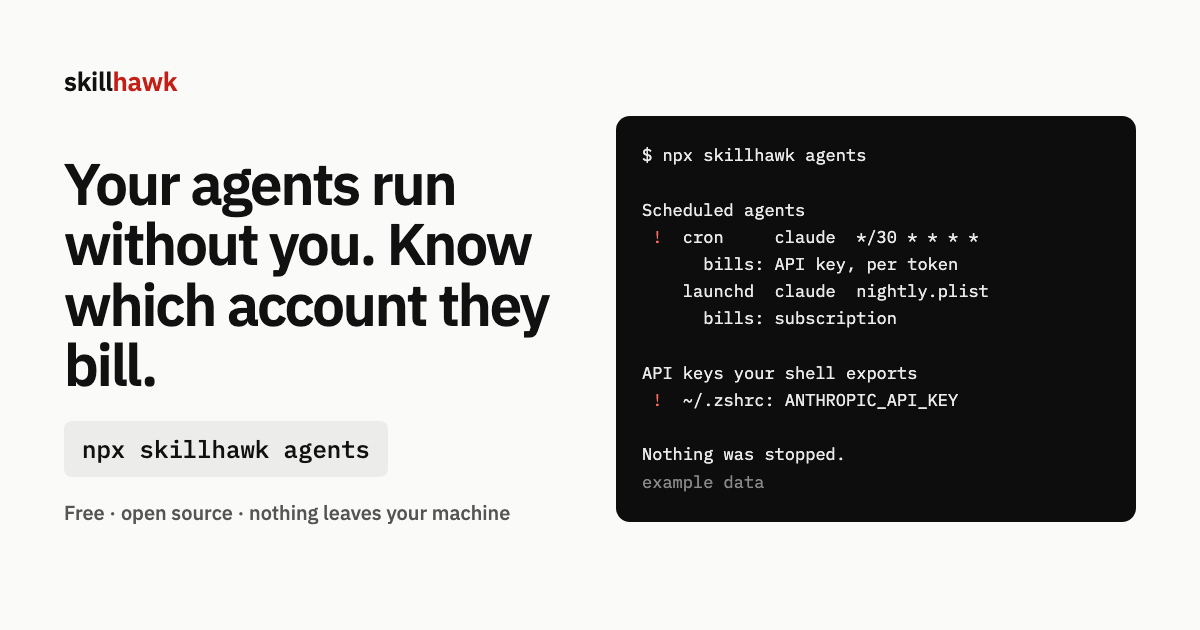
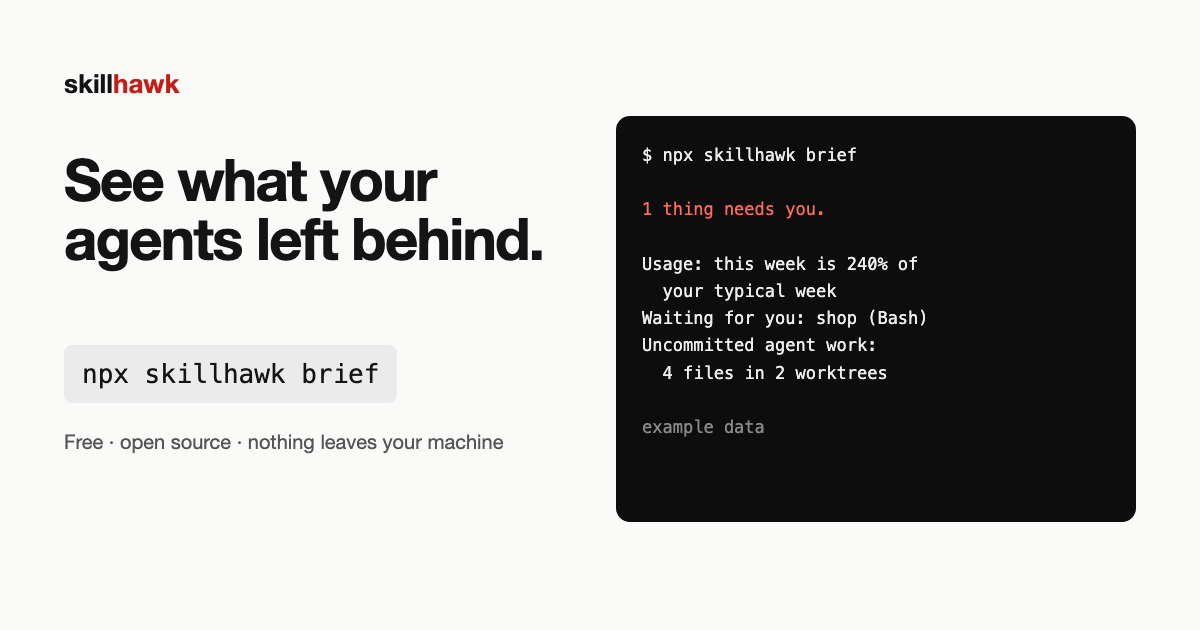
Home: see what your agents left behind; six free checks; own-machine proof; Free / Autopilot / Teams pricing

diff --git a/web/app.js b/web/app.js
@@ -281,7 +281,7 @@ MEDIUM .mcp.json:3  MCP server "files" runs @example/server-filesystem unpinned
 // every output line comes from a real run on registry/public, examples/, test/fixtures or the seeded demo data
 // (long output shortened, not edited).
 const FREE = 'Free and open source. Runs on your machine.';
-const PILOT = 'Pro: $20 a month, waitlist; the hosted vault is not running yet. The company vault, offboarding and exit interviews need a Teams license.';
+const PILOT = 'Teams license: the company vault, offboarding and exit interviews. Talk to us.';
 // Watch is built (private repo skillhawk-watch) and not on sale yet. Each row states what the free command does today and what Watch adds.
 const WATCH = { id: 'watch', step: 'Autopilot', h: 'Autopilot: the checks, run for you.', tier: 'Autopilot: built, not on sale yet; founding price $9 a month for the first 100 when it is. Join the waitlist (free, no payment); the commands below work today.',
   promise: 'Unattended agents are where surprise bills come from: a scheduled run that picks up an API key, or a loop nobody stops. Today the free command shows which agents run without you and which account each bills. Autopilot (built, not on sale yet) runs in the background: it warns when a job starts billing an API key, tracks cost per headless job, can stop one that runs away, and every day checks your codebase health, which lessons stick and what work you keep repeating.',
@@ -353,24 +353,20 @@ const ROADMAP = ['Leak-watch crawler', 'Stronger collusion resistance (merged co
 
 // Free and Pro prices mirror src/plans.js PLANS; test/pricing.test.js keeps them equal. Teams are by inquiry for now.
 const PRICING = {
-  heading: 'Free checks today. Autopilot: $9 a month for the first 100.',
-  note: 'Prices in USD. Autopilot is built and not on sale yet, and the hosted Pro vault is not running yet: join a waitlist, no payment collected. Autopilot founding price: $9 a month for the first 100 buyers, kept for as long as you stay subscribed; then $19 a month or $190 a year. Teams: tell us what you need.',
+  heading: 'Free now. Autopilot: $9 a month.',
+  note: 'Prices in USD. Autopilot is built and not on sale yet: join the waitlist, no payment collected. Founding price: $9 a month for the first 100 buyers, kept for as long as you stay subscribed; then $19 a month or $190 a year. Teams: tell us what you need.',
   plans: [
     { id: 'free', name: 'Free', monthlyUsd: 0, seats: 1, extraSeatUsd: null, price: '$0', per: 'MIT licensed',
-      blurb: 'Open source (MIT). Review, secure, clean and compile run offline on your machine; model, registry and import commands use the network.',
-      items: ['brief, usage, stuck, snapshot and restore, tidy, logs-secrets', 'setup, health, brain, factory', 'review, review --chats, secure, clean', 'create, compile to 5 agents, optimize', 'radar, A/B skills, model-release watch', 'map, tokens, agents, savings ledger and statement', 'test, dev, ci, badge'],
-      cta: { label: 'npx skillhawk review', href: 'https://github.com/agentwik-labs/skillhawk', code: true } },
+      blurb: 'Open source (MIT). Runs on your machine when you run it. No account, no key.',
+      items: ['brief, usage, stuck, agents', 'snapshot and restore, tidy, logs-secrets', 'health, setup, brain, factory', 'Skills: review, secure, compile to 5 agents', 'MCP server and Claude Code plugin'],
+      cta: { label: 'npx skillhawk brief', href: 'https://github.com/agentwik-labs/skillhawk', code: true } },
     { id: 'watch', name: 'Autopilot', preorder: true, monthlyUsd: 19, yearlyUsd: 190, foundingUsd: 9, seats: 1, extraSeatUsd: null, price: '$19', per: 'per month, or $190 a year. Founding price: $9 a month for the first 100', featured: true,
-      blurb: 'Waitlist. Built, not on sale yet. The free checks, run for you in the background on your machine, Per problem you choose once: tell me, prepare it, or do it; everything it does is logged and can be undone. If in 30 days it has not caught a billing problem, cut a repeated correction or shipped one skill with measured lift, you get your money back.',
-      items: ['Morning brief: what it did for you, what needs you', 'Usage paced against your own limits; queued jobs wait for the reset and re-run after a limit hit', 'Uncommitted agent work snapshotted every night', 'Sessions waiting on a permission prompt pushed to your phone', 'Red CI investigated overnight by your own agent: a fix branch or draft PR, never merged', 'Clutter cleaned under your rules; secrets redacted from agent logs', 'Tool updates checked against your settings, hooks and MCP servers', 'Warning when a scheduled agent starts billing an API key', 'Cost per headless job, per day; stop a runaway job (opt-in)', 'Daily codebase health, with an alert when it drops', 'Which adopted lessons stick, and which do not', 'Repeated work with no skill yet, ready to draft', 'Weekly report; desktop or Slack alerts', 'Brain notes synced to your own private git repo', 'Supply-chain and agent format checks', '30-day results guarantee'],
+      blurb: 'Waitlist. Built, not on sale yet. The free checks, run for you in the background on your machine. You choose per problem: tell me, prepare it, or do it; everything is logged and can be undone.',
+      items: ['Morning brief: what it did, what needs you', 'Warning when a scheduled agent starts billing an API key; stop a runaway job (opt-in)', 'Usage paced against your limits; jobs wait for the reset', 'Unsaved agent work snapshotted every night', 'Stuck sessions pushed to your phone', 'Daily codebase health, with an alert when it drops', '30-day guarantee: it catches a billing problem, cuts a repeated correction or ships a skill with measured lift, or your money back'],
       cta: { label: 'Join the waitlist', preorder: 'watch' } },
-    { id: 'pro', name: 'Pro', preorder: true, monthlyUsd: 20, seats: 1, extraSeatUsd: null, price: '$20', per: 'per month',
-      blurb: 'Waitlist. The vault software is built; the hosted vault is not running yet.',
-      items: ['Private skills, installable into Claude Code, Codex, Cursor and AGENTS.md agents', 'Versions, diffs and rollback', 'Publish checks: Reviewer + Security', 'Signed skills', 'Audit log, hash-chained', 'Lockfile'],
-      cta: { label: 'Join the Pro waitlist', preorder: 'pro' } },
     { id: 'team', name: 'Teams', inquiry: true, monthlyUsd: null, seats: null, extraSeatUsd: null, price: 'Talk to us', per: '',
       blurb: 'A shared vault for several people is set up by request for now. Tell us your team size and what you want to protect.',
-      items: ['License key for the company vault: run it on your own servers', 'Shared private vault with roles, tokens and an audit log', 'Copies marked for each person, with leak trace', 'Offboarding: revoke a leaver and see what they held', 'Exit interviews: what a leaver knows, kept as private skills', 'Revocable streaming over MCP', 'Governance and evidence export for your audit', 'Help running it on your own servers'],
+      items: ['License key for the company vault, on your own servers', 'Private skills with roles, versions and an audit log', 'Offboarding: revoke a leaver and see what they held', 'Exit interviews: what a leaver knows, kept as skills', 'Copies marked per person, with leak trace', 'Governance and evidence export for your audit'],
       cta: { label: 'Ask about teams', href: '#/teams' } },
   ],
 };
@@ -378,14 +374,14 @@ function lpNav() {
   return `<header class="lp-nav">
     <a class="lp-word" href="#/">skillhawk</a>
     <nav aria-label="Site"><a href="#/?s=checks">Checks</a><a href="#/?s=proof">Proof</a><a href="#/?s=pricing">Pricing</a><a href="#/browse">Library</a><a href="https://github.com/agentwik-labs/skillhawk">GitHub</a></nav>
-    <a class="lp-action" href="#/?s=su-hero">Join the waitlist</a>
+    <a class="lp-action" href="https://github.com/agentwik-labs/skillhawk#readme">Install free</a>
   </header>`;
 }
 
 function lpFooter() {
   return `<footer class="lp-foot">
     <div class="lp-foot-top">
-      <div><h2 class="lp-h">Know which account your agents bill.</h2><p class="lp-install"><code>npx skillhawk agents</code> · <a href="https://github.com/agentwik-labs/skillhawk#readme">Install guide on GitHub →</a></p></div>
+      <div><h2 class="lp-h">See what your agents left behind.</h2><p class="lp-install"><code>npx skillhawk brief</code> · <a href="https://github.com/agentwik-labs/skillhawk#readme">Install guide on GitHub →</a></p></div>
       <ul class="jf"><li><a href="tools/">All commands</a></li><li><a href="proof/">Proof</a></li><li><a href="#/browse">Library</a></li><li><a href="#/?s=pricing">Pricing</a></li><li><a href="#/teams">For teams</a></li><li><a href="learn/">Answers</a></li></ul>
       <ul><li><a href="#/browse">Browse all skills</a></li><li><a href="#/examples">Good vs bad</a></li><li><a href="#/create">Create a skill</a></li><li><a href="https://github.com/agentwik-labs/skillhawk">GitHub</a></li><li><a href="${esc(CFG.contact.url)}">${esc(CFG.contact.label)}</a></li></ul>
     </div>
@@ -434,7 +430,6 @@ const preorderHref = (id) => CFG.preorder?.[id] || `#/?s=reserve-${id}`;
 function pricingSection(id = 'pricing') {
   const P = PRICING;
   return `<section class="v-sec pr" id="${id}" aria-labelledby="${id}-h">
-      <p class="v-eyebrow">Pricing</p>
       <h2 class="lp-h" id="${id}-h">${esc(P.heading)}</h2>
       <ul class="pr-grid">${P.plans.map((p) => `<li class="pr-card${p.featured ? ' pr-featured' : ''}">
         <h3>${esc(p.name)}</h3>
@@ -450,8 +445,8 @@ function pricingSection(id = 'pricing') {
 function preorderCta(id) {
   const paid = CFG.preorder?.watch;
   return `<section class="lp-cta" aria-labelledby="${id}-h" id="pilot">
-      <h2 class="lp-h" id="${id}-h">Want a warning before an unattended agent bills the wrong account?</h2>
-      <p class="v-lede">Autopilot runs the free checks for you in the background: it warns when a scheduled agent starts billing an API key, tracks the cost of each headless job, can stop a runaway one, and tracks your codebase health and which lessons stick. Built and in testing; not on sale yet. Founding price: $9 a month for the first 100. The free command above does the check on demand today.</p>
+      <h2 class="lp-h" id="${id}-h">Let Autopilot run these for you.</h2>
+      <p class="v-lede">Every morning: a brief of what it did and what needs you, a warning when a scheduled agent starts billing an API key, unsaved agent work snapshotted. Built and in testing; not on sale yet. $9 a month for the first 100, kept while you stay subscribed.</p>
       <div class="po-row" id="reserve-watch">${paid
         ? `<a class="lp-action" href="${esc(paid)}">Get Autopilot, $9 a month (first 100)</a>`
         : signupSentence({ lead: 'Join the waitlist:', button: 'Join', tag: 'preorder-watch', id: `${id}-watch`, note: 'Free to join; no payment is collected. First 10 on the list: a free written review of your agent setup and skills, by email.' })}</div>
@@ -675,11 +670,30 @@ Agent processes
  !  100  claude  up 3d 4h  no terminal
 
 Nothing was stopped.`;
+// Real output of skillhawk 0.7.0 on an example machine (made-up user, repos and logs), trimmed.
+const BRIEF_OUT = `$ npx skillhawk brief
+skillhawk brief · dana-mbp
+
+1 thing needs you.
+
+Usage: this week is 240% of your typical week
+Waiting for you: shop (Bash)
+Uncommitted agent work: 4 files in 2 worktrees
+  (skillhawk snapshot saves it)
+
+$ npx skillhawk logs-secrets
+1 secret in 1 session log(s): 1 anthropic
+  anthropic  sk-a…(64 chars)
+  ~/.claude/projects/…/3c8e1f00….jsonl:1
+
+Redact: skillhawk logs-secrets --redact`;
 const CHECKS = [
-  { name: 'Agents', what: 'Every agent that runs without you (processes, unattended sessions, cron, launchd, scheduled CI) and which account each one bills. Read-only.', cmd: 'npx skillhawk agents', out: '! cron claude */30 * * * *  bills: API key (example data)' },
-  { name: 'Review', what: 'Grades every skill A to F with line-level findings: contradictions, vague rules, broken links, skills that crowd each other out.', cmd: 'npx skillhawk review .', out: 'C notes-v2: description never says when to use it' },
-  { name: 'Secure', what: 'Audits skills, MCP configs, hooks and scripts. A non-zero exit makes it a CI gate.', cmd: 'npx skillhawk secure .', out: 'HIGH settings.json:2 "Bash(*)" runs any shell command' },
-  { name: 'Compile', what: 'One skill, native files for five agents, each checked against its limits.', cmd: 'npx skillhawk compile ./skill', out: 'copilot: FAIL size 4301/4000 chars' },
+  { name: 'Will your plan last the week?', what: 'Usage paced against the limits you have hit before, from your own logs. An estimate in API list prices, not a bill.', cmd: 'npx skillhawk usage', out: 'last 5 hours: $18.57 of about $40.66 (46%)\nthis week is 240% of your typical week' },
+  { name: 'Sessions waiting on you', what: 'Agent sessions stuck on a permission prompt or a limit reset, with the command to resume each one.', cmd: 'npx skillhawk stuck', out: 'shop (7f3a9c21): waiting on Bash: npm run migrate · 24 min' },
+  { name: 'Save unsaved agent work', what: 'Uncommitted work in every agent repo, saved to hidden git refs. Your files, branches and index are not touched; nothing is pushed.', cmd: 'npx skillhawk snapshot', out: 'saved   3 file(s)  ~/dev/shop (main) -> 398af29996' },
+  { name: 'Keys pasted into chats', what: 'Claude Code keeps every session as plain text. This finds keys and passwords in those logs and redacts them in place.', cmd: 'npx skillhawk logs-secrets', out: '1 secret in 1 session log(s): 1 anthropic' },
+  { name: 'Agents billing an API key', what: 'Agents that run without you (cron, launchd, scheduled CI, unattended sessions) and which account each one bills.', cmd: 'npx skillhawk agents', out: '! cron claude */30 * * * *  bills: API key, pay per token' },
+  { name: 'Codebase health', what: 'Structure, tests, clean code, system design and cloud cost, graded with a fix for each finding. Local checks.', cmd: 'npx skillhawk health .', out: 'skillhawk health: B (89/100) · 0 high, 3 medium, 2 low' },
 ];
 
 function heroReserve(id) {
@@ -693,17 +707,12 @@ function heroReserve(id) {
     <p class="hr-note" data-note>${note}</p>`;
 }
 
-// One real run of `skillhawk agents` on the founder's own machine, counts only (no paths or commands).
-const OWN_RUN = { date: 'Nov 17, 2026', flagged: 24, detail: '10 agents up over 12 hours, 13 dev servers left running, 1 session with no human message for 2+ hours' };
-
-async function proofStats(el) {
-  const [d, l] = await Promise.all([fetch('media/proof.json').then((r) => (r.ok ? r.json() : null)).catch(() => null), loadLibrary()]);
-  const tiles = [];
-  if (d?.scan) tiles.push({ n: d.scan.skills, k: 'public skills scanned', s: `${d.scan.ship_scripts} ship scripts, ${d.scan.network_calls} make network calls, ${d.scan.confirmed_malicious} confirmed malicious.`, href: 'proof/scan/' });
-  if (l) tiles.push({ n: l.total, k: 'public skills graded', s: `${l.grades?.A ?? ''} got an A; ${(l.grades?.D ?? 0) + (l.grades?.F ?? 0)} got a D or F.`, href: 'proof/library/' });
-  if (d?.lift) { const up = d.lift.rows.filter((r) => r.with > r.without).length; tiles.push({ n: `${up} of ${d.lift.rows.length}`, k: 'tasks scored higher with a skill installed', s: 'Claude Haiku, 2 runs per task. A small sample.', href: 'proof/lift/' }); }
-  el.innerHTML = tiles.length ? tiles.map((t) => `<a class="ps" href="${t.href}"><b>${esc(String(t.n))}</b><span class="ps-k">${esc(t.k)}</span><span class="ps-s">${esc(t.s)}</span><span class="ps-l">Method and data →</span></a>`).join('') : '';
-}
+// Real runs on the founder's own machine, counts only (no paths, keys or commands).
+const OWN = [
+  { n: '13', k: 'secrets in 5 of my Claude Code session logs', s: '1 private key, 7 OpenAI keys, 5 passwords or tokens. skillhawk logs-secrets, Nov 23, 2026.' },
+  { n: '15', k: 'of my repos had unsaved agent work', s: 'Uncommitted files in agent worktrees. skillhawk snapshot --check, Nov 23, 2026.' },
+  { n: '$1,800+', k: 'billed in two days by scheduled jobs', s: 'Not ours: a Max subscriber whose jobs picked up an API key.', href: 'https://github.com/anthropics/claude-code/issues/37686', l: 'GitHub #37686 →' },
+];
 
 async function viewShowcase() {
   app.innerHTML = `
@@ -712,26 +721,25 @@ async function viewShowcase() {
 
     <section class="h2-hero" aria-labelledby="hero-h">
       <div class="h2-copy">
-        <h1 id="hero-h" class="lp-sentence h2-h1">Your agents run without you. Know which account they bill.</h1>
-        <p class="h2-lede">One free command finds every coding agent that runs without you (cron, launchd, scheduled CI, sessions left working) and shows which account each one bills: your subscription, or an API key that charges per token. Open source; nothing leaves your machine.</p>
-        ${cmd('npx skillhawk agents')}
-        <p class="h2-own">Why it matters: when <code>ANTHROPIC_API_KEY</code> is set, Claude Code uses it instead of your subscription, and <code>claude -p</code> always does (<a href="https://code.claude.com/docs/en/env-vars">Claude Code docs</a>). One Max subscriber's scheduled jobs billed <b>$1,800+ in two days</b> that way (<a href="https://github.com/anthropics/claude-code/issues/37686">GitHub #37686</a>).</p>
-        ${heroReserve('su-hero')}
+        <h1 id="hero-h" class="lp-sentence h2-h1">See what your agents left behind.</h1>
+        <p class="h2-lede">One free command checks your Claude Code setup: usage pace, stuck sessions, unsaved agent work, keys pasted into chats and agents billing an API key. Nothing leaves your machine.</p>
+        ${cmd('npx skillhawk brief')}
+        <p class="h2-own">Free and open source (MIT). No account, no key. Want it run for you every morning? <a href="#/?s=pilot">Autopilot, $9 a month for the first 100 →</a></p>
       </div>
-      <figure class="h2-term"><figcaption>Real output format, example data, trimmed</figcaption><pre tabindex="0" aria-label="Example output of skillhawk agents">${esc(AGENTS_OUT)}</pre></figure>
+      <figure class="h2-term"><figcaption>Real output, example machine, trimmed</figcaption><pre tabindex="0" aria-label="Example output of skillhawk brief and logs-secrets">${esc(BRIEF_OUT)}</pre></figure>
     </section>
 
     <section class="h2-sec" id="checks" aria-labelledby="checks-h">
-      <h2 id="checks-h" class="h2-h">Four free checks, one command each.</h2>
+      <h2 id="checks-h" class="h2-h">Six free checks, one command each.</h2>
       <ul class="h2-cards">${CHECKS.map((c) => `<li><h3>${esc(c.name)}</h3><p>${esc(c.what)}</p>${cmd(c.cmd)}<pre aria-label="Example output">${esc(c.out)}</pre></li>`).join('')}</ul>
-      <p class="h2-more"><a href="tools/">Every command, with example output →</a></p>
+      <p class="h2-more"><a href="tools/">Every command, with example output →</a> · For skills: <a href="tools/">review, secure and compile</a></p>
       <p class="h2-more">Answers: <a href="learn/why-is-claude-code-billing-my-api-key-instead-of-my-subscription/">why Claude Code bills an API key</a> · <a href="learn/see-which-ai-coding-agents-are-still-running/">which agents are still running</a> · <a href="learn/how-much-is-claude-code-costing-me/">what Claude Code is costing you</a> · <a href="learn/stop-a-background-ai-agent-safely/">stopping one safely</a></p>
     </section>
 
     <section class="h2-sec" id="proof" aria-labelledby="proof-h">
-      <h2 id="proof-h" class="h2-h">Measured, not claimed.</h2>
-      <div class="h2-stats" data-stats></div>
-      <p class="h2-more"><a href="proof/">Every measurement, with method and limits →</a></p>
+      <h2 id="proof-h" class="h2-h">Measured on my own machine.</h2>
+      <div class="h2-stats">${OWN.map((t) => `<${t.href ? `a href="${t.href}"` : 'div'} class="ps"><b>${esc(t.n)}</b><span class="ps-k">${esc(t.k)}</span><span class="ps-s">${esc(t.s)}</span>${t.l ? `<span class="ps-l">${esc(t.l)}</span>` : ''}</${t.href ? 'a' : 'div'}>`).join('')}</div>
+      <p class="h2-more"><a href="proof/">Skill measurements: 511 scanned, lift with and without, method and limits →</a></p>
     </section>
 
     ${pricingSection()}
@@ -740,7 +748,6 @@ async function viewShowcase() {
   </div>`;
   bindSignups(app);
   copyButtons(app);
-  await proofStats(app.querySelector('[data-stats]'));
 }
 
 function viewTeams() {

diff --git a/src/prerender.js b/src/prerender.js
@@ -27,7 +27,7 @@ const LISTINGS = {
 };
 const jsonLd = (obj) => `<script type="application/ld+json">${JSON.stringify(obj).replace(/</g, '\\u003c')}</script>`;
 const SECURE_LABEL = { clean: 'No security findings', low: 'Low-severity findings', medium: 'Medium-severity findings to review', high: 'High-severity findings' };
-const SITE_DESC = "Free, open-source CLI that shows which account your unattended coding agents bill (subscription or pay-per-token API key), and grades, security-checks and compiles AI agent skills.";
+const SITE_DESC = "Free, open-source CLI that shows what your coding agents left behind: usage pace, stuck sessions, unsaved agent work, keys pasted into chats and agents billing an API key. Also grades and security-checks AI agent skills.";
 // Content Signals (contentsignals.org): search engines, answer engines and model training may all use this site.
 const CONTENT_SIGNAL = 'Content-Signal: search=yes, ai-input=yes, ai-train=yes';
 // Skills published at /.well-known/agent-skills/ (Agent Skills Discovery RFC v0.2.0).
@@ -80,7 +80,7 @@ export function prerenderSite({ out, webDir, reportsDir, siteUrl: siteUrlIn, now
     <a class="brand" href="${b}"><span class="mark" aria-hidden="true"></span>skillhawk</a>
     <nav aria-label="Site"><a href="${b}install/">Install</a><a href="${b}skills/">Skills</a><a href="${b}tools/">Tools</a><a href="${b}proof/">Proof</a><a href="${b}learn/">Learn</a><a href="${b}pricing/">Pricing</a><a href="${b}#/teams">For teams</a><a href="${b}#/browse">Open the app</a></nav>
   </header>`;
-  const FOOT = (b) => `<footer class="foot"><span>Skillhawk shows which account your unattended agents bill, and checks the skills they run. Open source (MIT). Questions: <a href="mailto:help@skillhawk.ai">help@skillhawk.ai</a></span><span><a href="${b}install/">Install</a> · <a href="${b}tools/">Tools</a> · <a href="${b}skills/">Skills</a> · <a href="${b}proof/">Proof</a> · <a href="${b}learn/">Learn</a> · <a href="${b}llms.txt">llms.txt</a> · <a href="${LISTINGS.npm}">npm</a> · <a href="${LISTINGS.glama}">Glama</a> · <a href="https://github.com/agentwik-labs/skillhawk">GitHub</a></span></footer>`;
+  const FOOT = (b) => `<footer class="foot"><span>Skillhawk shows what your coding agents left behind, and checks the skills they run. Open source (MIT). Questions: <a href="mailto:help@skillhawk.ai">help@skillhawk.ai</a></span><span><a href="${b}install/">Install</a> · <a href="${b}tools/">Tools</a> · <a href="${b}skills/">Skills</a> · <a href="${b}proof/">Proof</a> · <a href="${b}learn/">Learn</a> · <a href="${b}llms.txt">llms.txt</a> · <a href="${LISTINGS.npm}">npm</a> · <a href="${LISTINGS.glama}">Glama</a> · <a href="https://github.com/agentwik-labs/skillhawk">GitHub</a></span></footer>`;
 
   const page = ({ p, title, description, body, ld = [], lastmod = today, type = 'article' }) => {
     // Search results show about 60 characters of a title and 155 of a description; cut at a word, never mid-word.
@@ -194,18 +194,17 @@ ${body(b)}
   const P = journey.PRICING;
   if (P) {
     const plan = (id) => P.plans.find((x) => x.id === id);
-    const [pro, team] = [plan('pro'), plan('team')];
-    if (!pro) throw new Error('prerender: PRICING needs a plan with id "pro"');
+    const team = plan('team');
     const perOf = (x) => (x.per ? ` ${x.per}` : '');
     // Listed prices only: nothing is sold through this page (no checkout), so the offers carry no url or availability.
     const offers = P.plans.filter((x) => typeof x.monthlyUsd === 'number').map((x) => ({ '@type': 'Offer', name: x.name, price: String(x.monthlyUsd), priceCurrency: 'USD', description: `${x.price}${perOf(x)}. ${x.blurb} ${P.note}` }));
     const watch = plan('watch');
-    const summary = `Free open-source developer tools.${watch ? ` Autopilot ${watch.price}${perOf(watch)} (waitlist; built, not on sale yet).` : ''} Pro ${pro.price}${perOf(pro)} for your own private vault (waitlist).${team ? ' Teams by request.' : ''}`;
+    const summary = `Free open-source developer tools.${watch ? ` Autopilot ${watch.price}${perOf(watch)} (waitlist; built, not on sale yet).` : ''}${team ? ' Teams (company vault, offboarding) by request.' : ''}`;
     page({ p: '/pricing/', title: 'Skillhawk pricing: free checks today, Autopilot from $9 a month', description: `${summary} ${P.note}`,
       ld: [crumbs([['Skillhawk', '/'], ['Pricing', '/pricing/']]), { '@context': 'https://schema.org', '@type': 'Product', name: 'Skillhawk', description: 'Build, check and protect your company\'s AI agent skills.', offers }],
       body: (b) => `${trail(b, [['Skillhawk', ''], ['Pricing']])}
     <h1>${esc(P.heading || 'Skillhawk pricing')}</h1>
-    <p class="sp-answer">The developer tools are free and open source. ${watch ? `Autopilot (${esc(watch.price)}${esc(perOf(watch))} when it goes on sale; built, not on sale yet) is a background guard on your machine: it warns when a scheduled agent starts billing an API key, tracks the cost of each headless job, and can stop a runaway one. ` : ''}Pro (${esc(pro.price)}${esc(perOf(pro))}, waitlist) is a private vault for your skills; the software is built, and the hosted version is not running yet. ${team ? `${esc(team.blurb)} ` : ''}${esc(P.note)}</p>
+    <p class="sp-answer">The developer tools are free and open source. ${watch ? `Autopilot (${esc(watch.price)}${esc(perOf(watch))} when it goes on sale; built, not on sale yet) is a background guard on your machine: it warns when a scheduled agent starts billing an API key, tracks the cost of each headless job, and can stop a runaway one. ` : ''}${team ? `${esc(team.blurb)} ` : ''}${esc(P.note)}</p>
     ${P.plans.map((x) => `<h2>${esc(x.name)}: ${esc(x.price)}${esc(perOf(x))}</h2><p>${esc(x.blurb)}</p><ul>${x.items.map((i) => `<li>${esc(i)}</li>`).join('')}</ul>`).join('\n')}
     <p><a href="${b}#/?s=pilot">Join the Autopilot waitlist</a> · <a href="${b}#/teams">Teams: talk to us</a></p>` });
     texts['/pricing/'] = `Pricing\n${P.plans.map((x) => `${x.name}: ${x.price}${perOf(x)}. ${x.blurb} ${x.items.join('; ')}.`).join('\n')}\n${P.note}`;
@@ -398,9 +397,9 @@ ${body(b)}
   const indexFile = path.join(out, 'index.html');
   const stepHtml = (s) => `<section id="${s.id}-static"><h2>${esc(s.step)}: ${esc(s.h)}</h2><p>${esc(s.promise)} <span class="sp-meta">${esc(s.tier)}</span></p><ul>${tools.filter((t) => t.stepId === s.id).map((t) => `<li><a href="tools/${t.slug}/"><b>${esc(t.name)}</b></a>: ${esc(t.what)} <code>${esc(t.cmd)}</code></li>`).join('')}</ul></section>`;
   const landing = `<div class="sp-landing">
-    <h1>Your agents run without you. Know which account they bill.</h1>
-    <p class="sp-answer">One free command finds every coding agent that runs without you (cron, launchd, scheduled CI, sessions left working) and shows which account each one bills: your subscription, or an API key that charges per token. The same CLI grades your AI skills, scans them for security problems and compiles them for five agents. Autopilot, built and not on sale yet, runs the free checks for you in the background: it warns when a scheduled agent starts billing an API key, tracks the cost of each headless job, can stop a runaway one, and tracks your codebase health and which lessons stick. Founding price: $9 a month for the first 100.</p>
-    <p><code>npx skillhawk agents</code> <a class="sp-cta" href="#/?s=su-hero">Join the Autopilot waitlist</a></p>
+    <h1>See what your agents left behind.</h1>
+    <p class="sp-answer">One free command checks your Claude Code setup: usage pace, sessions stuck on a prompt, unsaved agent work, keys pasted into chats, and agents that run without you and which account each one bills (your subscription, or an API key that charges per token). Nothing leaves your machine. The same CLI grades your AI skills, scans them for security problems and compiles them for five agents. Autopilot, built and not on sale yet, runs the free checks for you in the background: it warns when a scheduled agent starts billing an API key, tracks the cost of each headless job, can stop a runaway one, and tracks your codebase health and which lessons stick. Founding price: $9 a month for the first 100.</p>
+    <p><code>npx skillhawk brief</code> <a class="sp-cta" href="#/?s=pilot">Join the Autopilot waitlist</a></p>
     ${journey.WATCH ? `<section><h2>${esc(journey.WATCH.step)}: ${esc(journey.WATCH.h)}</h2><p>${esc(journey.WATCH.promise)} <span class="sp-meta">${esc(journey.WATCH.tier)}</span></p><ul>${journey.WATCH.tools.map((t) => `<li><b>${esc(t.name)}</b>: ${esc(t.what)}</li>`).join('')}</ul></section>` : ''}
     ${[...journey.JOURNEY, journey.PROTECT].map(stepHtml).join('\n')}
     <section><h2>Measured, not claimed</h2><p>The scan, lift, reviewer and trace numbers come from runs you can repeat from the repository; the token week is one developer's own logs.</p><ul>${proofPages.map((x) => `<li><a href="proof/${x.slug}/">${esc(x.title)}</a></li>`).join('')}</ul></section>

diff --git a/web/landing.css b/web/landing.css
@@ -7,7 +7,7 @@ body.is-landing main { max-width: none; padding: 0; }
 
 .lp {
   --bg: #ffffff; --surface: #f2f2f2; --ink: #141414; --muted: #6b6b6b; --dim: #595959;
-  --accent: #c41f17; --accent-ink: #ffffff; --field: #0a0a0a; --field-ink: #ffffff;
+  --accent: #c41f17; --accent-ink: #ffffff; --field: #0a0a0a; --field-ink: #ffffff; --code-bg: #f2f2f2; --ink-2: #3a3a3a; --line: #e2e2e2; color-scheme: light;
   --m: clamp(20px, 4.4vw, 64px);
   --step-small: clamp(0.8125rem, 0.79rem + 0.1vw, 0.875rem);
   --step-body: clamp(1.0625rem, 1rem + 0.25vw, 1.1875rem);
@@ -692,8 +692,8 @@ body.is-landing main { max-width: none; padding: 0; }
 @media (max-width: 720px) { .v-sec, .j-dark + .v-sec { padding-top: 72px; } .j-dark { margin-top: 72px; } .sc { grid-template-columns: 1fr; } }
 
 /* Pricing */
-.pr-grid { list-style: none; margin: 40px 0 0; padding: 0; display: grid; grid-template-columns: repeat(4, minmax(0, 1fr)); gap: 16px; }
-.pr-card { display: flex; flex-direction: column; gap: 12px; padding: 24px; border: 1px solid #e3e3e3; border-radius: 12px; background: var(--bg); min-width: 0; }
+.pr-grid { list-style: none; margin: 40px 0 0; padding: 0; display: grid; grid-template-columns: repeat(3, minmax(0, 1fr)); gap: 16px; }
+.pr-card { display: flex; flex-direction: column; gap: 12px; padding: 28px; border-radius: 12px; background: var(--surface); min-width: 0; }
 .pr-card h3 { margin: 0; font-size: 1.15rem; letter-spacing: -0.01em; }
 .pr-price { margin: 0; display: flex; align-items: baseline; gap: 8px; flex-wrap: wrap; }
 .pr-price b { font-size: 2.4rem; font-weight: 600; letter-spacing: -0.04em; line-height: 1; }
@@ -704,10 +704,10 @@ body.is-landing main { max-width: none; padding: 0; }
 .pr-items li::before { content: ""; position: absolute; left: 0; top: .5em; width: 8px; height: 8px; border-radius: 2px; background: var(--ink); }
 .pr-card .lp-action, .pr-code { align-self: flex-start; margin-top: 8px; }
 .pr-code code { display: inline-block; white-space: nowrap; }
-.pr-featured { border-color: var(--accent); box-shadow: 0 0 0 1px var(--accent); }
+.pr-featured { background: #fbeceb; }
 .pr-featured .pr-items li::before { background: var(--accent); }
 .pr-note { margin: 8px 0 0; color: var(--dim); font-size: .9rem; }
-@media (max-width: 1080px) { .pr-grid { grid-template-columns: repeat(2, minmax(0, 1fr)); } }
+@media (max-width: 900px) { .pr-grid { grid-template-columns: 1fr; } }
 @media (max-width: 640px) { .pr-grid { grid-template-columns: 1fr; } }
 
 /* Pre-order rows and the Watch call to action */
@@ -719,7 +719,7 @@ body.is-landing main { max-width: none; padding: 0; }
 .lib-note { grid-column: 1 / -1; margin: 0 0 8px; font-size: .95rem; color: var(--muted, #666); }
 
 /* ---- Home v2: one story, one conversion (hero reserve form) ---- */
-.lp2 .h2-hero { display: grid; grid-template-columns: minmax(0, 1.05fr) minmax(0, .95fr); gap: 56px; align-items: center; padding-top: 72px; padding-bottom: 96px; }
+.lp2 .h2-hero { display: grid; grid-template-columns: minmax(0, 1.05fr) minmax(0, .95fr); gap: 56px; align-items: start; padding-top: 72px; padding-bottom: 96px; }
 .lp2 .h2-h1 { font-size: clamp(2.6rem, 5.6vw, 5.2rem); line-height: .98; }
 .lp2 .h2-lede { margin: 24px 0 28px; max-width: 44ch; font-size: var(--step-lead); line-height: 1.4; color: var(--ink); }
 .lp2 .h2-copy .cmd { max-width: 30rem; }
@@ -739,7 +739,9 @@ body.is-landing main { max-width: none; padding: 0; }
 .lp2 .h2-term pre { margin: 0; font: 13px/1.55 ui-monospace, SFMono-Regular, Menlo, monospace; white-space: pre; }
 .lp2 .h2-sec { padding-top: 88px; padding-bottom: 24px; }
 .lp2 .h2-h { margin: 0 0 28px; font-size: clamp(1.8rem, 3vw, 2.6rem); font-weight: 600; letter-spacing: -0.03em; line-height: 1.1; }
-.lp2 .h2-cards { list-style: none; margin: 0; padding: 0; display: grid; grid-template-columns: repeat(2, minmax(0, 1fr)); gap: 16px; }
+.lp2 .h2-cards { list-style: none; margin: 0; padding: 0; display: grid; grid-template-columns: repeat(3, minmax(0, 1fr)); gap: 16px; }
+@media (max-width: 1080px) { .lp2 .h2-cards { grid-template-columns: repeat(2, minmax(0, 1fr)); } }
+@media (max-width: 640px) { .lp2 .h2-cards { grid-template-columns: 1fr; } }
 .lp2 .h2-cards li { background: var(--surface); border-radius: 10px; padding: 22px; display: flex; flex-direction: column; gap: 12px; }
 .lp2 .h2-cards h3 { margin: 0; font-size: 1.25rem; }
 .lp2 .h2-cards p { margin: 0; color: var(--dim); }
@@ -747,8 +749,8 @@ body.is-landing main { max-width: none; padding: 0; }
 .lp2 .h2-more { margin: 20px 0 0; }
 .lp2 .h2-more a { color: var(--ink); font-weight: 500; text-underline-offset: 3px; }
 .lp2 .h2-stats { display: grid; grid-template-columns: repeat(3, minmax(0, 1fr)); gap: 16px; }
-.lp2 .ps { display: flex; flex-direction: column; gap: 6px; padding: 22px; border: 1px solid #e2e2e2; border-radius: 10px; color: var(--ink); text-decoration: none; }
-.lp2 .ps:hover { border-color: var(--ink); }
+.lp2 .ps { display: flex; flex-direction: column; gap: 6px; padding: 22px; background: var(--surface); border-radius: 10px; color: var(--ink); text-decoration: none; }
+.lp2 a.ps:hover { background: #ececec; }
 .lp2 .ps b { font-size: clamp(2.2rem, 4vw, 3.2rem); font-weight: 600; letter-spacing: -0.04em; line-height: 1; }
 .lp2 .ps-k { font-weight: 600; }
 .lp2 .ps-s { color: var(--dim); font-size: var(--step-small); }

diff --git a/web/index.html b/web/index.html
@@ -3,23 +3,23 @@
 <head>
   <meta charset="utf-8">
   <meta name="viewport" content="width=device-width, initial-scale=1">
-  <title>Skillhawk: which account do your unattended agents bill?</title>
-  <meta name="description" content="Free open-source CLI: find every coding agent that runs without you (cron, launchd, scheduled CI) and which account it bills, subscription or API key.">
+  <title>Skillhawk: see what your coding agents left behind</title>
+  <meta name="description" content="Free open-source CLI for Claude Code: usage pace, stuck sessions, unsaved agent work, keys pasted into chats and agents billing an API key. Runs on your machine.">
   <meta name="theme-color" content="#ffffff">
   <link rel="canonical" href="https://skillhawk.ai/">
   <meta property="og:type" content="website">
   <meta property="og:site_name" content="Skillhawk">
-  <meta property="og:title" content="Skillhawk: which account do your unattended agents bill?">
-  <meta property="og:description" content="Your agents run without you. One free command shows which account each one bills: your subscription or a pay-per-token API key.">
+  <meta property="og:title" content="Skillhawk: see what your coding agents left behind">
+  <meta property="og:description" content="Free open-source CLI for Claude Code: usage pace, stuck sessions, unsaved agent work, keys pasted into chats and agents billing an API key. Runs on your machine.">
   <meta property="og:url" content="https://skillhawk.ai/">
   <meta property="og:image" content="https://skillhawk.ai/media/og.png">
   <meta property="og:image:width" content="1200">
   <meta property="og:image:height" content="630">
-  <meta property="og:image:alt" content="Your agents run without you. Know which account they bill. npx skillhawk agents">
+  <meta property="og:image:alt" content="See what your agents left behind. npx skillhawk brief">
   <meta name="twitter:card" content="summary_large_image">
   <meta name="twitter:image" content="https://skillhawk.ai/media/og.png">
-  <meta name="twitter:title" content="Skillhawk: which account do your unattended agents bill?">
-  <meta name="twitter:description" content="Your agents run without you. One free command shows which account each one bills.">
+  <meta name="twitter:title" content="Skillhawk: see what your coding agents left behind">
+  <meta name="twitter:description" content="One free command: usage pace, stuck sessions, unsaved agent work, leaked keys, agents billing an API key.">
   <link rel="icon" href="favicon.svg" type="image/svg+xml">
   <link rel="preconnect" href="https://fonts.googleapis.com">
   <link href="https://fonts.googleapis.com/css2?family=IBM+Plex+Mono:wght@400;500&family=IBM+Plex+Sans:wght@400;500;600&display=swap" rel="stylesheet">
@@ -61,7 +61,7 @@
     </form>
   </dialog>
   <footer class="foot">
-    <span>Skillhawk shows which account your unattended agents bill, and checks the skills they run. Open source (MIT). <a href="mailto:help@skillhawk.ai">help@skillhawk.ai</a> · <a href="#/?s=su-hero">Reserve Autopilot →</a></span>
+    <span>Skillhawk shows what your coding agents left behind, and checks the skills they run. Open source (MIT). <a href="mailto:help@skillhawk.ai">help@skillhawk.ai</a> · <a href="#/?s=su-hero">Reserve Autopilot →</a></span>
     <span><a href="#/?s=build">Build</a> · <a href="#/?s=check">Check</a> · <a href="#/?s=improve">Improve</a> · <a href="#/?s=save">Save</a> · <a href="#/?s=protect">Protect</a> · <a href="#/browse">Library</a> · <a href="#/examples">Good vs bad</a> · <a href="install/">Install &amp; MCP</a> · <a href="https://www.npmjs.com/package/skillhawk">npm</a> · <a href="https://glama.ai/mcp/servers/agentwik-labs/skillhawk">Glama</a> · <a href="https://github.com/agentwik-labs/skillhawk">GitHub</a></span>
   </footer>
   <script src="config.js"></script>

diff --git a/test/pricing.test.js b/test/pricing.test.js
@@ -9,8 +9,8 @@ import { PLANS, PREORDERS } from '../src/plans.js';
 const ROOT = path.resolve(path.dirname(fileURLToPath(import.meta.url)), '..');
 const { PRICING } = loadJourney(path.join(ROOT, 'web'));
 
-test('site shows Free, Watch, Pro and a Teams inquiry card, in that order', () => {
-  assert.deepEqual(PRICING.plans.map((p) => p.id), ['free', 'watch', 'pro', 'team']);
+test('site shows Free, Autopilot and a Teams inquiry card, in that order', () => {
+  assert.deepEqual(PRICING.plans.map((p) => p.id), ['free', 'watch', 'team']);
 });
 
 test('waitlist cards say so, and Watch matches src/plans.js PREORDERS', () => {
@@ -44,7 +44,9 @@ test('Teams has no price and points to the inquiry form', () => {
 });
 
 test('heading states the Watch price', () => {
-  assert.equal(PRICING.heading, `Free checks today. Autopilot: $${PREORDERS.watch.foundingUsd} a month for the first ${PREORDERS.watch.foundingLimit}.`);
+  assert.equal(PRICING.heading, `Free now. Autopilot: $${PREORDERS.watch.foundingUsd} a month.`);
+  const w = PRICING.plans.find((p) => p.id === 'watch');
+  assert.match(w.per, new RegExp(`first ${PREORDERS.watch.foundingLimit}`), 'the founding limit is stated on the card');
 });
 
 test('web/app.js parses (the tests above only read its data block)', async () => {

diff --git a/test/prerender.test.js b/test/prerender.test.js
@@ -26,7 +26,7 @@ after(() => fs.rmSync(tmp, { recursive: true, force: true }));
 
 test('landing text is in index.html without JavaScript, and the SPA scripts are still there', () => {
   const html = read('index.html');
-  assert.match(textOf(html), /Your agents run without you\. Know which account they bill/);
+  assert.match(textOf(html), /See what your agents left behind/);
   assert.match(textOf(html), /skillhawk review skills\//);
   assert.match(html, /<link rel="canonical" href="https:\/\/example\.test\/base\/">/);
   assert.match(html, /src="app\.js/);
